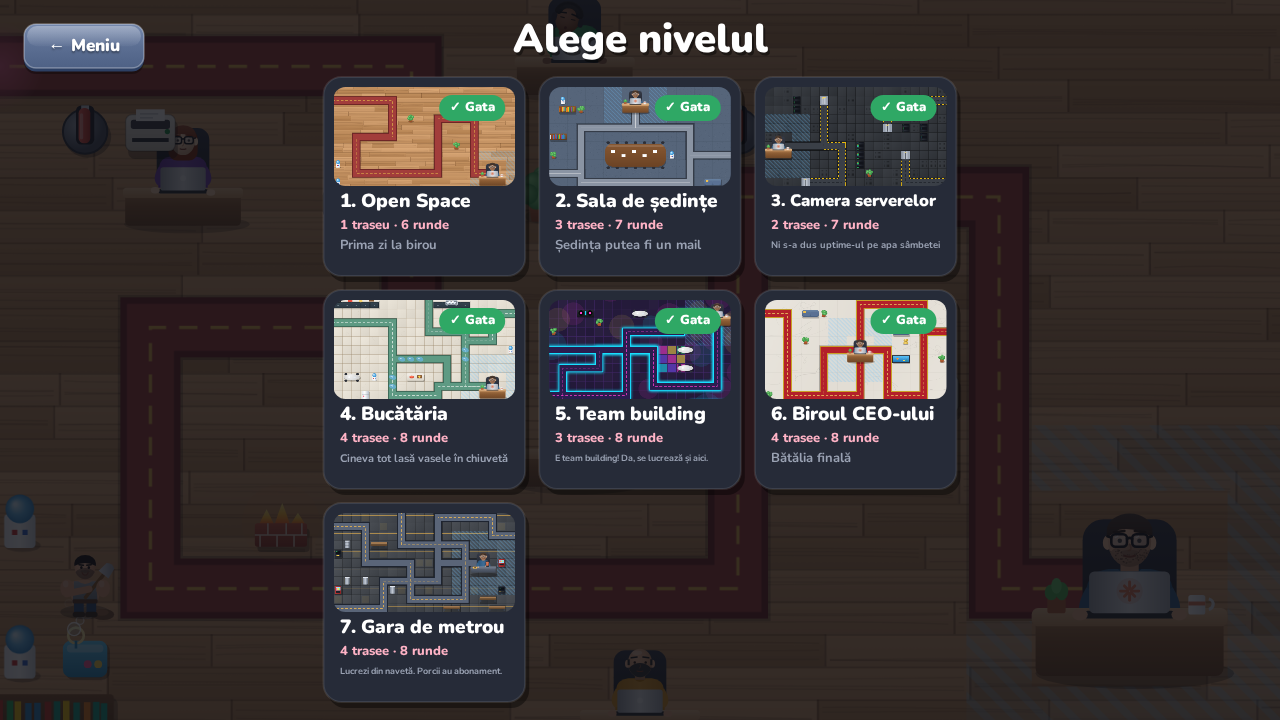
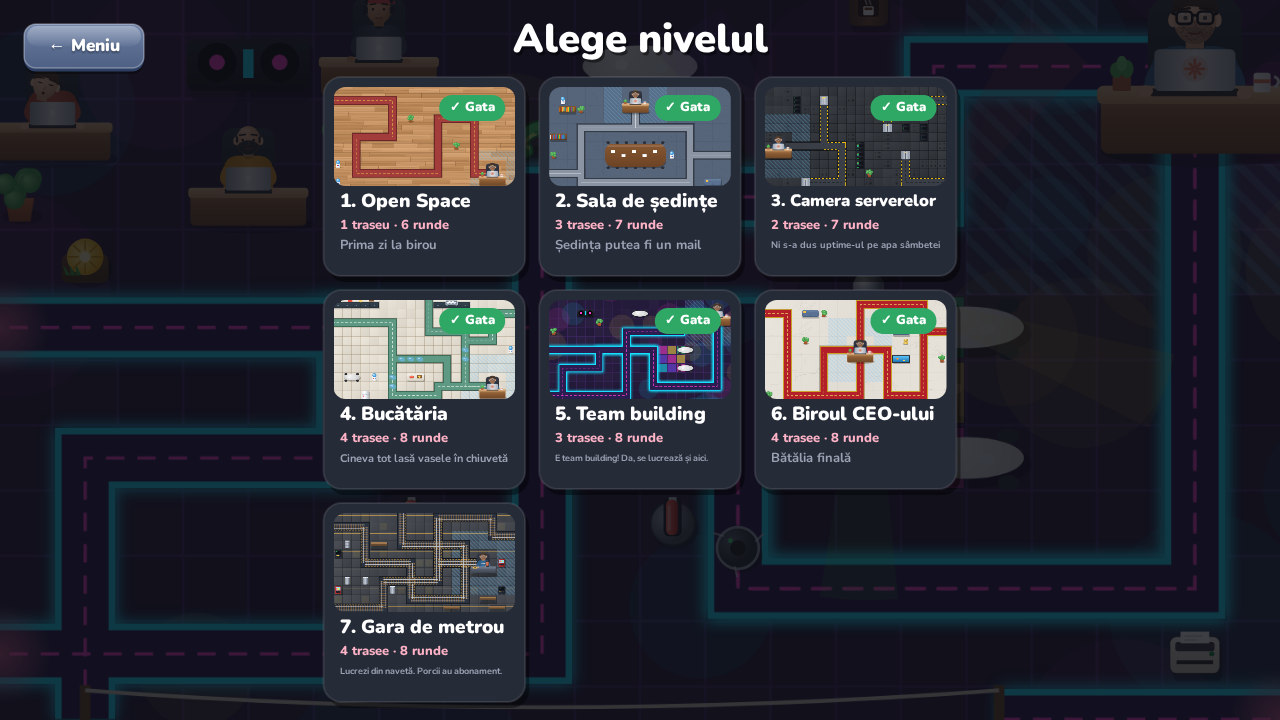
v11.6: șine pe metrou, Șarpe cu fakeness, Cristos și Cosmin (#5)
Pe Gara de metrou traseele arată ca șine (traverse + șine), Săpătorul
devine Șarpe verde care scuipă fakeness (aceleași daune/stun), pe
tricoul programatorului scrie Cristos, iar Porcul Cosmin are ecuson
și etichetă clară.

diff --git a/index.html b/index.html
@@ -29,7 +29,7 @@ canvas{position:fixed;left:0;top:0;display:block;touch-action:none}
 // =====================================================================
 //  PURCEL OVERFLOW — tower defense cu porci, un programator și Claude
 // =====================================================================
-const VERSION = 'v11.5';
+const VERSION = 'v11.6';
 const cv = document.getElementById('c'), ctx = cv.getContext('2d');
 const TS = 50, COLS = 20, ROWS = 12, MY = 60, MW = 1000, MH = 600, PW = 280;
 const FB = '"Nunito","Segoe UI",system-ui,sans-serif', FM = 'Consolas,"Courier New",monospace';
@@ -107,8 +107,8 @@ const TOWERS = {
     desc: 'Rază mică, trage foarte repede într-un singur porc. Ieftin și bun aproape de hol.', ups: ['Capse mai grele: +60% daune.', 'Dublă capsare: trage în doi porci deodată.'] },
   printer: { cat: 'atk', name: 'Imprimantă', lvl: 1, cost: 170, range: 4.2, rate: 1.8, dmg: 20, splash: 1.0,
     desc: 'Rază foarte mare. Aruncă topuri de hârtie care lovesc tot grupul unde aterizează.', ups: ['Toner extra: +60% daune și rază mai mare.', 'Format A3: explozie mult mai mare.'] },
-  digger: { cat: 'atk', name: 'Săpător', lvl: 2, cost: 180, range: 2.1, rate: 1.8, dmg: 16, stun: 0.9,
-    desc: 'Un coleg musculos care sapă gropi pe hol. Porcii cad în ele, se lovesc și pierd timp.', ups: ['Gropi mai adânci: porcii stau mai mult jos și se lovesc mai tare.', 'Sapă mult mai repede, iar fiecare groapă prinde mai mulți porci.'] },
+  digger: { cat: 'atk', name: 'Șarpe', lvl: 2, cost: 180, range: 2.1, rate: 1.8, dmg: 16, stun: 0.9,
+    desc: 'Șarpe verde care scuipă fakeness pe hol. Porcii calcă în el, se încurcă și pierd timp.', ups: ['Fakeness mai lipicios: porcii stau mai mult și se lovesc mai tare.', 'Scuipă mai des, iar fiecare băltoacă prinde mai mulți porci.'] },
   firewall: { cat: 'atk', name: 'Firewall', lvl: 3, cost: 200, range: 1.5, dps: 27,
     desc: 'Arde continuu tot ce trece pe lângă el. Excelent pe colțurile holului.', ups: ['Ardere +60%.', 'Firewall enterprise: rază mai mare.'] },
   slicer: { cat: 'atk', name: 'Feliator', lvl: 4, cost: 220, range: 2.6, rate: 1.2, dmg: 22, bounce: 3,
@@ -795,10 +795,48 @@ function drawBG(x, li) {
     segs.push(cur); });
   x.lineJoin = 'miter'; x.lineCap = 'butt';
   const stroke = (w, col, dash) => segs.forEach(pts => { if (pts.length < 2) return; x.beginPath(); pts.forEach(([a, b], i) => i ? x.lineTo(a, b) : x.moveTo(a, b)); x.lineWidth = w; x.strokeStyle = col; x.setLineDash(dash || []); x.stroke(); });
-  if (th === 'party') { x.shadowColor = '#18e0ff'; x.shadowBlur = 18; }
-  stroke(50, 'rgba(0,0,0,.22)'); stroke(46, bc); x.shadowBlur = 0; stroke(36, fc);
-  if (th === 'server') { stroke(46, '#1d1f24', [10, 10]); stroke(36, fc); }
-  stroke(2.5, sc, th === 'carpet' ? [] : [14, 10]); x.setLineDash([]);
+  if (th === 'metro') {
+    // șine de metrou: pat de balast + traverse + două șine (doar pe tema metro)
+    stroke(54, 'rgba(0,0,0,.42)'); stroke(48, '#1a1f28'); stroke(42, '#2c3340');
+    segs.forEach(pts => {
+      if (pts.length < 2) return;
+      for (let i = 1; i < pts.length; i++) {
+        const ax = pts[i - 1][0], ay = pts[i - 1][1], bx = pts[i][0], by = pts[i][1];
+        const dx = bx - ax, dy = by - ay, len = Math.hypot(dx, dy) || 1;
+        const ux = dx / len, uy = dy / len, nx = -uy, ny = ux;
+        x.strokeStyle = '#6a5238'; x.lineWidth = 6; x.lineCap = 'butt';
+        for (let d = 5; d < len; d += 13) {
+          const cx = ax + ux * d, cy = ay + uy * d;
+          x.beginPath(); x.moveTo(cx + nx * 17, cy + ny * 17); x.lineTo(cx - nx * 17, cy - ny * 17); x.stroke();
+        }
+        for (const off of [-9, 9]) {
+          x.strokeStyle = '#b8c2ce'; x.lineWidth = 3.2;
+          x.beginPath(); x.moveTo(ax + nx * off, ay + ny * off); x.lineTo(bx + nx * off, by + ny * off); x.stroke();
+          x.strokeStyle = 'rgba(255,255,255,.4)'; x.lineWidth = 1.1;
+          x.beginPath(); x.moveTo(ax + nx * (off - 1.1), ay + ny * (off - 1.1)); x.lineTo(bx + nx * (off - 1.1), by + ny * (off - 1.1)); x.stroke();
+        }
+      }
+    });
+    // bandă de siguranță pe marginea șinelor (nu linie de centru ca pe drum)
+    segs.forEach(pts => {
+      if (pts.length < 2) return;
+      for (let i = 1; i < pts.length; i++) {
+        const ax = pts[i - 1][0], ay = pts[i - 1][1], bx = pts[i][0], by = pts[i][1];
+        const dx = bx - ax, dy = by - ay, len = Math.hypot(dx, dy) || 1;
+        const ux = dx / len, uy = dy / len, nx = -uy, ny = ux;
+        x.strokeStyle = 'rgba(255,193,77,.7)'; x.lineWidth = 2; x.setLineDash([8, 8]);
+        for (const off of [-20, 20]) {
+          x.beginPath(); x.moveTo(ax + nx * off, ay + ny * off); x.lineTo(bx + nx * off, by + ny * off); x.stroke();
+        }
+      }
+    });
+    x.setLineDash([]);
+  } else {
+    if (th === 'party') { x.shadowColor = '#18e0ff'; x.shadowBlur = 18; }
+    stroke(50, 'rgba(0,0,0,.22)'); stroke(46, bc); x.shadowBlur = 0; stroke(36, fc);
+    if (th === 'server') { stroke(46, '#1d1f24', [10, 10]); stroke(36, fc); }
+    stroke(2.5, sc, th === 'carpet' ? [] : [14, 10]); x.setLineDash([]);
+  }
   // bălți (bucătărie)
   for (let r = 0; r < ROWS; r++) for (let c = 0; c < COLS; c++) if (d.wetT[r][c]) { const cx = c * TS + 25, cy = r * TS + 25; x.fillStyle = 'rgba(110,190,255,.55)'; x.beginPath(); x.ellipse(cx, cy, 20, 13, 0.3, 0, 7); x.fill(); x.fillStyle = 'rgba(255,255,255,.55)'; x.beginPath(); x.ellipse(cx - 6, cy - 4, 6, 2.5, 0.3, 0, 7); x.fill(); }
   // lifturi
@@ -1167,12 +1205,12 @@ function updateGame(g, dt) {
         const pts = d.paths[p.path], nx = pts[Math.min(p.seg + 1, pts.length - 1)], dx = nx.x - p.x, dy = nx.y - p.y, dl = Math.hypot(dx, dy) || 1, lead = Math.min(0.55 * p.spd * p.slow, dl);
         g.projs.push({ k: 'paper', sx: cx, sy: cy - 10, tx: p.x + dx / dl * lead, ty: p.y + dy / dl * lead, t: 0, dur: 0.55, dmg: T.dmg * (t.lvl >= 2 ? 1.6 : 1) * t.buff, sp: (T.splash + (t.lvl >= 3 ? 0.6 : 0)) * TS }); gsfx(g, 'paper', 0.1);
       } }
-    } else if (t.type === 'digger') { // sapă o groapă chiar în fața porcului cel mai avansat din rază
+    } else if (t.type === 'digger') { // scuipă fakeness chiar în fața porcului cel mai avansat din rază
       if (t.cd <= 0) { const tg = g.pigs.filter(p => targetable(p) && !(p.stun > 0) && Math.hypot(p.x - cx, p.y - cy) < R).sort((a, b) => b.dist - a.dist)[0];
-        if (tg) { let q = posAt(g.li, tg.path, tg.dist + Math.min(26, tg.spd * 0.4)); if (Math.hypot(q.x - cx, q.y - cy) > R + 25) q = { x: tg.x, y: tg.y }; // nu sapă dincolo de lift / în afara razei
+        if (tg) { let q = posAt(g.li, tg.path, tg.dist + Math.min(26, tg.spd * 0.4)); if (Math.hypot(q.x - cx, q.y - cy) > R + 25) q = { x: tg.x, y: tg.y }; // nu scuipă dincolo de lift / în afara razei
           t.cd = T.rate * (t.lvl >= 3 ? 0.6 : 1) / rm; t.fx = 0.6; t.ang = Math.atan2(q.y - cy, q.x - cx); gsfx(g, 'dig', 0.45);
           (g.pits || (g.pits = [])).push({ x: q.x, y: q.y, t: 0, max: 3.2, cap: t.lvl >= 3 ? 5 : 3, hits: [], dmg: T.dmg * (t.lvl >= 2 ? 1.6 : 1) * t.buff, stun: T.stun * (t.lvl >= 2 ? 1.4 : 1), sx: cx, sy: cy });
-          if (!g.sim) for (let i = 0; i < 7; i++) FX.push({ k: 'spark', x: q.x, y: q.y, vx: (Math.random() - 0.5) * 120, vy: -60 - Math.random() * 90, l: 0.45, m: 0.45, c: '#7a5232', s: 3 }); } }
+          if (!g.sim) for (let i = 0; i < 7; i++) FX.push({ k: 'spark', x: q.x, y: q.y, vx: (Math.random() - 0.5) * 120, vy: -60 - Math.random() * 90, l: 0.45, m: 0.45, c: '#c060ff', s: 3 }); } }
     } else if (t.type === 'firewall') {
       let any = false; for (const p of g.pigs) if (targetable(p) && Math.hypot(p.x - cx, p.y - cy) < R) { damage(g, p, T.dps * (t.lvl >= 2 ? 1.6 : 1) * t.buff * rateMul * dt); any = true; }
       if (any) { t.fx = 0.25; gsfx(g, 'fire', 0.28); }
@@ -1240,37 +1278,35 @@ function updateGame(g, dt) {
 
 // =================================================================== DESEN: porci
 function drawDigger(ang, fx, time) {
-  const k = fx > 0 ? clamp(fx / 0.6, 0, 1) : 0, sw = Math.sin(k * Math.PI), f = Math.cos(ang || 0) < 0 ? -1 : 1, br = Math.sin(time * 2.4) * 0.4;
-  ctx.fillStyle = 'rgba(0,0,0,.28)'; ell(0, 18, 19, 5.5); ctx.fill();
-  ctx.save(); ctx.translate(0, 4); ctx.scale(f * 1.06, 1.06);
-  // movilă de pământ
-  ctx.fillStyle = '#7a5232'; ell(13, 15, 8, 4); ctx.fill(); ctx.fillStyle = '#946640'; ell(12, 13.5, 5, 2.5); ctx.fill();
-  // picioare (blugi) și bocanci
-  ctx.fillStyle = '#2f4a73'; rr(-8, 4, 7, 11, 2); ctx.fill(); rr(1, 4, 7, 11, 2); ctx.fill(); ctx.fillStyle = '#3a2a1c'; rr(-9, 13, 9, 4, 2); ctx.fill(); rr(0, 13, 9, 4, 2); ctx.fill();
-  // tors: maiou gri pe piept lat
-  ctx.fillStyle = '#e2a57e'; ctx.beginPath(); ctx.moveTo(-13, -8); ctx.quadraticCurveTo(0, -12 + br, 13, -8); ctx.lineTo(9, 6); ctx.lineTo(-9, 6); ctx.fill();
-  ctx.fillStyle = lg(0, -10, 0, 6, ['#9aa3ad', '#6f7882']); ctx.beginPath(); ctx.moveTo(-8, -9); ctx.lineTo(-5, -9); ctx.quadraticCurveTo(0, -5, 5, -9); ctx.lineTo(8, -9); ctx.lineTo(9, 6); ctx.lineTo(-9, 6); ctx.fill();
-  ctx.fillStyle = '#5b3a24'; rr(-9, 4, 18, 3, 1); ctx.fill();
-  // lopata, ținută cu ambele mâini; coboară în groapă când sapă
-  ctx.save(); ctx.translate(4, -2); ctx.rotate(-0.9 + sw * 1.25);
-  ctx.strokeStyle = '#8a5a2b'; ctx.lineWidth = 2.6; ctx.lineCap = 'round'; ctx.beginPath(); ctx.moveTo(-6, 0); ctx.lineTo(16, 0); ctx.stroke();
-  ctx.fillStyle = lg(16, -5, 24, 5, ['#d7dbe2', '#8d939e']); ctx.beginPath(); ctx.moveTo(15, -4.5); ctx.lineTo(23, -3.5); ctx.quadraticCurveTo(26, 0, 23, 3.5); ctx.lineTo(15, 4.5); ctx.fill();
-  if (k > 0.3) { ctx.fillStyle = '#7a5232'; ell(22, -1, 3.5, 2.5); ctx.fill(); }
-  ctx.restore();
-  // brațe musculoase (biceps mari)
-  const hx = 4 + Math.cos(-0.9 + sw * 1.25) * 3, hy = -2 + Math.sin(-0.9 + sw * 1.25) * 3;
-  ctx.fillStyle = '#d99a72'; ell(-13, -4, 5, 6.5); ctx.fill(); ell(13, -4, 5, 6.5); ctx.fill();
-  ctx.strokeStyle = '#d99a72'; ctx.lineWidth = 5; ctx.lineCap = 'round'; ctx.beginPath(); ctx.moveTo(-13, 0); ctx.lineTo(hx - 3, hy + 1); ctx.moveTo(13, 0); ctx.lineTo(hx + 5, hy + 2); ctx.stroke();
-  ctx.fillStyle = 'rgba(255,255,255,.22)'; ell(-14, -7, 2, 2.5); ctx.fill(); ell(12, -7, 2, 2.5); ctx.fill();
-  // cap: păr negru scurt, barbă stubble îngrijită
-  ctx.fillStyle = '#c98d66'; ctx.fillRect(-3, -14, 6, 4);
-  ctx.fillStyle = rg(-2, -21, 1, 10, ['#f1bd96', '#e2a57e', '#c98d66']); ell(0, -19, 7.5, 8.5); ctx.fill();
-  ctx.save(); ell(0, -19, 7.5, 8.5); ctx.clip(); ctx.fillStyle = 'rgba(40,28,22,.45)'; ell(0, -13, 8, 5.5); ctx.fill(); ctx.fillStyle = 'rgba(40,28,22,.25)'; ell(0, -16.2, 3.4, 1); ctx.fill(); ctx.restore();
-  ctx.fillStyle = '#16120f'; ctx.beginPath(); ctx.ellipse(0, -22, 7.8, 6, 0, Math.PI, 0); ctx.lineTo(7.8, -20); ctx.quadraticCurveTo(0, -24.5, -7.8, -20); ctx.fill();
-  ctx.fillStyle = '#1a1210'; ell(-2.7, -19, 0.9, 1.1); ctx.fill(); ell(2.7, -19, 0.9, 1.1); ctx.fill();
-  ctx.strokeStyle = '#16120f'; ctx.lineWidth = 1.1; ctx.beginPath(); ctx.moveTo(-4.4, -21); ctx.lineTo(-1.2, -20.6); ctx.moveTo(1.2, -20.6); ctx.lineTo(4.4, -21); ctx.stroke();
-  ctx.strokeStyle = '#7a3e2c'; ctx.lineWidth = 0.9; ctx.beginPath(); ctx.arc(0, -15.6, 2.2, 0.2, Math.PI - 0.2); ctx.stroke();
-  if (k > 0) { ctx.fillStyle = 'rgba(120,190,255,.8)'; ell(6.5, -24, 1, 1.6); ctx.fill(); }
+  // Șarpe verde care scuipă fakeness (aceeași logică de gropi / stun ca Săpătorul)
+  const k = fx > 0 ? clamp(fx / 0.6, 0, 1) : 0, f = Math.cos(ang || 0) < 0 ? -1 : 1, wig = Math.sin(time * 5.5) * 1.8;
+  ctx.fillStyle = 'rgba(0,0,0,.28)'; ell(0, 16, 18, 5); ctx.fill();
+  ctx.save(); ctx.translate(0, 3); ctx.scale(f * 1.05, 1.05);
+  ctx.strokeStyle = '#1f6b32'; ctx.lineWidth = 12; ctx.lineCap = 'round';
+  ctx.beginPath(); ctx.moveTo(-12, 11); ctx.quadraticCurveTo(-18, 2, -8, -3); ctx.quadraticCurveTo(2, -9 + wig, 7, 1); ctx.stroke();
+  ctx.strokeStyle = lg(-10, -8, 10, 10, ['#4fd06a', '#2a9a44']); ctx.lineWidth = 9;
+  ctx.beginPath(); ctx.moveTo(-12, 11); ctx.quadraticCurveTo(-18, 2, -8, -3); ctx.quadraticCurveTo(2, -9 + wig, 7, 1); ctx.stroke();
+  ctx.strokeStyle = '#c8f07a'; ctx.lineWidth = 2.6;
+  ctx.beginPath(); ctx.moveTo(-10, 9); ctx.quadraticCurveTo(-14, 2, -5, -1); ctx.stroke();
+  // pete pe corp
+  ctx.fillStyle = 'rgba(30,100,50,.45)'; ell(-10, 6, 2.2, 1.6); ctx.fill(); ell(-4, -2, 2, 1.4); ctx.fill(); ell(2, -5 + wig * 0.3, 1.8, 1.3); ctx.fill();
+  // cap
+  ctx.fillStyle = lg(4, -10, 16, 4, ['#5ee87a', '#2f9e48']); ell(11, -1 + wig * 0.25, 9.2, 7.6); ctx.fill();
+  ctx.fillStyle = '#fff'; ell(12.5, -4.2, 2.3, 2.5); ctx.fill(); ell(16.8, -3.6, 2.1, 2.3); ctx.fill();
+  ctx.fillStyle = '#152018'; ell(13, -4, 1.05, 1.25); ctx.fill(); ell(17.2, -3.4, 0.95, 1.15); ctx.fill();
+  ctx.fillStyle = '#1a7a35'; ell(18.5, -0.5, 2.2, 1.6); ctx.fill();
+  if (k > 0) {
+    const spit = 6 + k * 16, sy = Math.sin(time * 18) * 1.5;
+    ctx.strokeStyle = `rgba(210,90,255,${0.55 + 0.4 * k})`; ctx.lineWidth = 2.4; ctx.lineCap = 'round';
+    ctx.beginPath(); ctx.moveTo(19, 0); ctx.quadraticCurveTo(19 + spit * 0.5, sy - 2, 19 + spit, sy); ctx.stroke();
+    ctx.fillStyle = rg(19 + spit - 2, sy - 2, 1, 8, ['rgba(255,180,255,.9)', 'rgba(160,70,255,.75)', 'rgba(90,40,160,.55)']);
+    ell(19 + spit, sy, 5.5 + k * 3, 4.2 + k * 2); ctx.fill();
+    ctx.fillStyle = '#fff'; ctx.font = '900 5px ' + FB; ctx.textAlign = 'center'; ctx.textBaseline = 'middle';
+    ctx.fillText('FAKE', 19 + spit, sy + 0.5);
+  } else {
+    ctx.strokeStyle = '#e84870'; ctx.lineWidth = 1.5; ctx.lineCap = 'round';
+    ctx.beginPath(); ctx.moveTo(19.5, 0.5); ctx.lineTo(25, -2); ctx.moveTo(19.5, 0.5); ctx.lineTo(25, 3); ctx.stroke();
+  }
   ctx.restore();
 }
 function drawPig(p, x, y, sc = 1, time = 0) {
@@ -1311,10 +1347,11 @@ function drawPig(p, x, y, sc = 1, time = 0) {
   if (t === 'hacker') { ctx.fillStyle = '#2b2f38'; ctx.beginPath(); ctx.arc(hx - 1, hy - 1, 12.5, Math.PI * 0.6, Math.PI * 1.65); ctx.lineTo(hx + 6, hy - 12); ctx.fill(); ctx.fillStyle = '#0c0c0f'; rr(hx - 1, hy - 5.5, 9.5, 4, 1.5); ctx.fill(); }
   if (t === 'armor') { ctx.fillStyle = rg(hx - 3, hy - 9, 1, 13, ['#ff7f6e', '#c0392b']); ctx.beginPath(); ctx.ellipse(hx, hy - 1, 12, 11, 0, Math.PI * 1.02, Math.PI * 1.98); ctx.fill(); ctx.fillStyle = 'rgba(40,40,50,.85)'; rr(hx - 1, hy - 6.5, 11, 4.5, 1.5); ctx.fill(); ctx.fillStyle = '#fff'; ctx.fillRect(hx - 6, hy - 10, 2, 5); }
   if (t === 'cosmin') {
-    // hanorac + plăci de „armură” (laptopuri) + ochelari: greu de capsă, slab la duș
+    // hanorac + plăci de „armură” (laptopuri) + ochelari + ecuson COSMIN
     ctx.fillStyle = lg(0, -10, 0, 10, ['#3f6c94', '#2a4a68']); ell(0, 0, 17.5, 12); ctx.fill();
     ctx.fillStyle = '#1f2e40'; rr(-7, -4, 8, 10, 1.5); ctx.fill(); rr(2, -3, 8, 10, 1.5); ctx.fill();
-    ctx.fillStyle = '#7ef0a0'; ctx.font = 'bold 5px monospace'; ctx.textAlign = 'center'; ctx.fillText('</>', 1, 2);
+    ctx.fillStyle = '#152030'; rr(-11, 3, 22, 8, 2); ctx.fill();
+    ctx.fillStyle = '#7ef0a0'; ctx.font = '900 5.5px ' + FB; ctx.textAlign = 'center'; ctx.textBaseline = 'middle'; ctx.fillText('COSMIN', 0, 7.2);
     ctx.fillStyle = '#2a3340'; ctx.beginPath(); ctx.ellipse(hx, hy - 3, 11.5, 8.5, 0, Math.PI * 1.05, Math.PI * 1.95); ctx.fill();
     ctx.strokeStyle = '#18181c'; ctx.lineWidth = 1.4; rr(hx - 1, hy - 5, 7, 5, 1.5); ctx.stroke(); rr(hx + 6, hy - 5, 7, 5, 1.5); ctx.stroke();
     ctx.beginPath(); ctx.moveTo(hx + 6, hy - 2.5); ctx.lineTo(hx + 6, hy - 2.5); ctx.stroke();
@@ -1350,6 +1387,12 @@ function drawPig(p, x, y, sc = 1, time = 0) {
     const w = 30 * s, fr = clamp(p.hp / p.max, 0, 1), by = y - 26 * s;
     ctx.fillStyle = 'rgba(0,0,0,.55)'; rr(x - w / 2 - 1, by - 1, w + 2, 6, 3); ctx.fill();
     ctx.fillStyle = fr > 0.5 ? '#5ee07a' : fr > 0.25 ? '#ffd84d' : '#ff5c5c'; rr(x - w / 2, by, w * fr, 4, 2); ctx.fill();
+  }
+  if (t === 'cosmin' && !p.char) {
+    const tagY = y - (p.hp < p.max ? 36 : 26) * s;
+    ctx.fillStyle = 'rgba(15,24,38,.88)'; rr(x - 24 * s, tagY - 7 * s, 48 * s, 12 * s, 4 * s); ctx.fill();
+    ctx.strokeStyle = 'rgba(126,240,160,.55)'; ctx.lineWidth = 1.2; rr(x - 24 * s, tagY - 7 * s, 48 * s, 12 * s, 4 * s); ctx.stroke();
+    text('COSMIN', x, tagY, Math.max(9, 10 * s), '#7ef0a0', 'center', '900');
   }
 }
 const pigIcon = (type, x, y, size, time) => drawPig({ type, face: 1, anim: time * 8, flash: 0, slow: 1, hp: 1, max: 1, id: 1, bub: 0 }, x, y, size / PIGS[type].size, time);
@@ -1435,7 +1478,7 @@ function drawRobot(t, time) {
   ctx.save(); ctx.translate(x, y); ctx.rotate(time * 20); ctx.strokeStyle = 'rgba(200,210,225,.7)'; ctx.lineWidth = 1.5; for (let i = 0; i < 3; i++) { ctx.rotate(Math.PI * 2 / 3); ctx.beginPath(); ctx.moveTo(10, 10); ctx.lineTo(18, 13); ctx.stroke(); } ctx.restore();
 }
 function towerDots(t, g) {
-  const cx = t.c * TS + 25, cy = MY + t.r * TS + (t.type === 'digger' ? -4 : 3);
+  const cx = t.c * TS + 25, cy = MY + t.r * TS + (t.type === 'digger' ? 6 : 3);
   for (let i = 0; i < 3; i++) {
     const x = cx - 8 + i * 8; let col = '#5b606c';
     if (i < t.lvl) col = '#ffd84d'; else if (i === t.lvl) col = g.money >= upCost(t) ? '#3fe07a' : '#5b606c';
@@ -1456,7 +1499,7 @@ const DEVS = [
   { skin: '#6e4530', hair: '#121212', style: 'short', shirt: '#e6c229' },
   { skin: '#f5d6bd', hair: '#6a4a2a', style: 'beanie', shirt: '#b03a3a', capColor: '#3c8a4a' },
 ];
-const ME = { skin: '#e8b490', hair: '#3a2a20', style: 'short', shirt: '#3f6c94', glasses: true, stubble: true };
+const ME = { skin: '#e8b490', hair: '#3a2a20', style: 'short', shirt: '#3f6c94', glasses: true, stubble: true, shirtName: 'Cristos' };
 function drawPerson(cx, by, s, o, mood, t, typing, angry, sleep) {
   ctx.save(); ctx.translate(cx, by); ctx.scale(s, s);
   const sk = o.skin, skD = shade(sk, -30), skL = shade(sk, 18);
@@ -1466,6 +1509,14 @@ function drawPerson(cx, by, s, o, mood, t, typing, angry, sleep) {
   ctx.fillStyle = lg(-34, 0, 34, 0, [shade(o.shirt, -25), o.shirt, shade(o.shirt, -25)]);
   ctx.beginPath(); ctx.moveTo(-34, 108); ctx.lineTo(-33, 76); ctx.quadraticCurveTo(-32, 62, -16, 60); ctx.lineTo(16, 60); ctx.quadraticCurveTo(32, 62, 33, 76); ctx.lineTo(34, 108); ctx.fill();
   ctx.fillStyle = shade(o.shirt, -40); ctx.beginPath(); ctx.moveTo(-9, 60); ctx.quadraticCurveTo(0, 70, 9, 60); ctx.fill();
+  if (o.shirtName) {
+    const label = o.shirtName.toUpperCase();
+    let sz = 6.8; ctx.font = `900 ${sz}px ${FB}`;
+    while (sz > 5.2 && ctx.measureText(label).width > 44) { sz -= 0.25; ctx.font = `900 ${sz}px ${FB}`; }
+    // puțin mai sus pe piept, ca să nu-l acopere biroul / mâinile
+    ctx.fillStyle = 'rgba(255,255,255,.96)'; ctx.textAlign = 'center'; ctx.textBaseline = 'middle';
+    ctx.fillText(label, 0, 78);
+  }
   ctx.save(); if (sleep) { ctx.translate(0, 14); ctx.rotate(0.25); }
   ctx.fillStyle = skD; ctx.fillRect(-7, 50, 14, 12);
   if (o.style === 'long') { ctx.fillStyle = shade(o.hair, -10); rr(-20, 24, 40, 42, 12); ctx.fill(); }
@@ -1602,15 +1653,20 @@ function drawWorld(g, hints) {
   drawProgrammer(g);
   for (const t of g.towers) if (t.type === 'vacuum' && t.pi >= 0) drawRobot(t, g.time);
   for (const pt of g.pits || []) { const a = Math.min(1, pt.t * 6, (pt.max - pt.t) * 3), r = 17 * a;
-    ctx.fillStyle = 'rgba(122,82,50,.9)'; ell(pt.x + 12, pt.y + 4, 7 * a, 4.5 * a); ctx.fill(); ell(pt.x - 13, pt.y + 3, 5 * a, 3.5 * a); ctx.fill();
-    ctx.fillStyle = '#5a3a22'; ell(pt.x, pt.y + 2, r, r * 0.55); ctx.fill(); ctx.fillStyle = '#1e130b'; ell(pt.x, pt.y + 3, r * 0.78, r * 0.4); ctx.fill(); }
+    // băltoacă de fakeness (aceeași hitbox ca gropile vechi)
+    ctx.fillStyle = `rgba(160,70,255,${0.35 * a})`; ell(pt.x, pt.y + 2, r * 1.35, r * 0.75); ctx.fill();
+    ctx.fillStyle = rg(pt.x - 4, pt.y - 4, 1, r, ['rgba(255,190,255,.85)', 'rgba(180,80,255,.8)', 'rgba(70,30,120,.7)']);
+    ell(pt.x, pt.y + 2, r, r * 0.55); ctx.fill();
+    ctx.fillStyle = 'rgba(255,255,255,.75)'; ctx.font = `900 ${Math.max(7, 9 * a)}px ${FB}`; ctx.textAlign = 'center'; ctx.textBaseline = 'middle';
+    ctx.fillText('fake', pt.x, pt.y + 2);
+  }
   const sorted = g.pigs.filter(p => p.lift <= 0).sort((a, b) => a.y - b.y);
   const chorus = g.ev && g.ev.type === 'chorus';
-  for (const p of sorted) if (p.stun > 0) { // porc căzut în groapă: se vede doar jumătatea de sus, cu steluțe
+  for (const p of sorted) if (p.stun > 0) { // porc înfășurat în fakeness: se vede doar jumătatea de sus
     const k = Math.min(1, (p.stunMax - p.stun) * 8, p.stun * 6), px = p.x, py = p.y, s = PIGS[p.type].size;
     ctx.save(); ctx.beginPath(); ctx.rect(px - 40 * s, py - 60 * s, 80 * s, 60 * s + 3); ctx.clip(); drawPig({ ...p, hp: p.max }, px, py + 12 * s * k, 1, g.time); ctx.restore();
-    ctx.fillStyle = '#5a3a22'; ctx.beginPath(); ctx.ellipse(px, py + 3, 18 * s, 6 * s, 0, 0, Math.PI); ctx.fill();
-    for (let i = 0; i < 3; i++) { const an = g.time * 6 + i * 2.1; text('★', px + Math.cos(an) * 14 * s, py - 18 * s + Math.sin(an) * 4, 11, '#ffd84d', 'center', '900'); }
+    ctx.fillStyle = 'rgba(140,60,220,.85)'; ctx.beginPath(); ctx.ellipse(px, py + 3, 18 * s, 6 * s, 0, 0, Math.PI); ctx.fill();
+    for (let i = 0; i < 3; i++) { const an = g.time * 6 + i * 2.1; text('★', px + Math.cos(an) * 14 * s, py - 18 * s + Math.sin(an) * 4, 11, '#e8b0ff', 'center', '900'); }
   }
   for (const p of sorted) if (!(p.stun > 0)) drawPig(p, p.x + p.ox * (chorus ? 0.1 : 1), p.y + p.oy * (chorus ? 0.1 : 1) + (chorus ? Math.sin(g.time * 14 + p.id) * 3 : 0), 1, g.time);
   for (const t of g.towers) { const cx = t.c * TS + 25, cy = MY + t.r * TS + 25, k = t.born != null ? clamp((g.time - t.born) / 0.4, 0, 1) : 1; ctx.save(); if (k < 1) { const e = 1 + 2.7 * Math.pow(k - 1, 3) + 1.7 * Math.pow(k - 1, 2); ctx.translate(cx, cy); ctx.scale(e, e); ctx.translate(-cx, -cy); } drawTower(t.type, cx, cy, t.ang, t.fx, g.time, t); if (!g.demo) towerDots(t, g); ctx.restore(); }

diff --git a/README.md b/README.md
@@ -21,9 +21,9 @@ Pune capcane lângă hol, ține bullshit-ul jos și ai grijă ce aprobi când Cl
 
 ## Ce găsești în joc
 
-- 🏢 **7 nivele**, fiecare cu harta lui: Open Space, Sala de ședințe, Camera serverelor (cu lifturi), Bucătăria (cu podea udă), Team building (cu tiroliană și ring de dans), Biroul CEO-ului și Gara de metrou (peroane, Dușul, Porcul Cosmin)
+- 🏢 **7 nivele**, fiecare cu harta lui: Open Space, Sala de ședințe, Camera serverelor (cu lifturi), Bucătăria (cu podea udă), Team building (cu tiroliană și ring de dans), Biroul CEO-ului și Gara de metrou (șine, peroane, Dușul, Porcul Cosmin)
 - 🪤 **9 capcane** cu câte 2 upgrade-uri:
-  - de atac: Capsator, Imprimantă, Săpător (un coleg musculos care sapă gropi pe hol), Firewall, Feliator, Aspirator, Duș (topeste Porcul Cosmin)
+  - de atac: Capsator, Imprimantă, Șarpe (verde, scuipă fakeness pe hol), Firewall, Feliator, Aspirator, Duș (topeste Porcul Cosmin)
   - de ajutor: Balonașe (îi prind în bule de săpun) și Espressor (face capcanele din jur mai rapide și mai puternice)
 - ⏱ **Contra cronometru**: ai timp limitat între runde, iar dacă pornești runda mai repede primești bonus de viteză
 - 📊 **Statistici la final de nivel**: porci opriți, lei câștigați, răspunsuri corecte la Claude, timp și capcana vedetă. La game over, Claude îți dă și un sfat în funcție de ce a mers prost
@@ -57,7 +57,8 @@ Versiunea curentă apare în colțul din dreapta-jos al meniului. Fiecare versiu
 
 | Versiune | Ce a adus |
 |---|---|
-| **v11.5** | În lista de nivele, titlurile și textul roz cu numărul de runde nu se mai suprapun |
+| **v11.6** | Pe Gara de metrou drumurile arată ca șine; Săpătorul e acum Șarpe verde care scuipă fakeness; pe tricoul programatorului scrie Cristos; Porcul Cosmin are ecuson clar |
+| v11.5 | În lista de nivele, titlurile și textul roz cu numărul de runde nu se mai suprapun |
 | v11.4 | Textul din promptul lui Claude încape din nou după nivelul 7: panou mai strâns la 7+ capcane, font mai mic și scroll pe rotație/trage în terminal |
 | v11.3 | Nivelul 7 „Gara de metrou”: temă de peron, Porcul Cosmin (armură + slab la Duș), capcana Duș, programatori pe telefon, Rege mai gălăgios, cutremur și bullshit mai mari; unlock-ul se salvează din nou în localStorage; GitHub Pages pe https://adinzm.github.io/purcel-overflow/ |
 | v11.2 | „Săpătorul” devine „Săpător”, sunet mai blând la săpat și la căderea în groapă, Săpătorul încape în pătrățelul lui, gropile nu mai apar dincolo de lifturi, rebalansare verificată |
